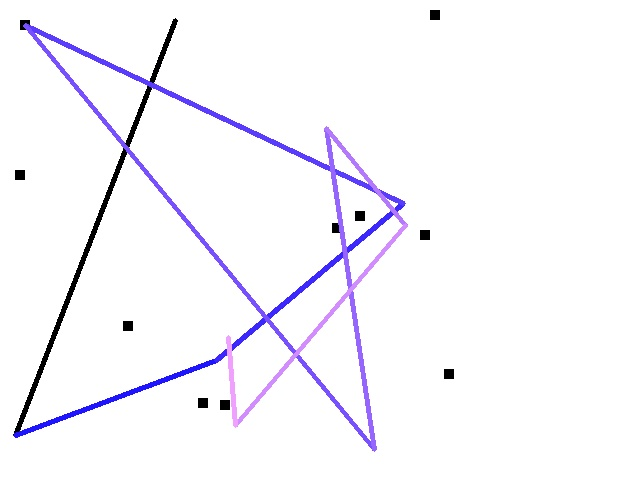
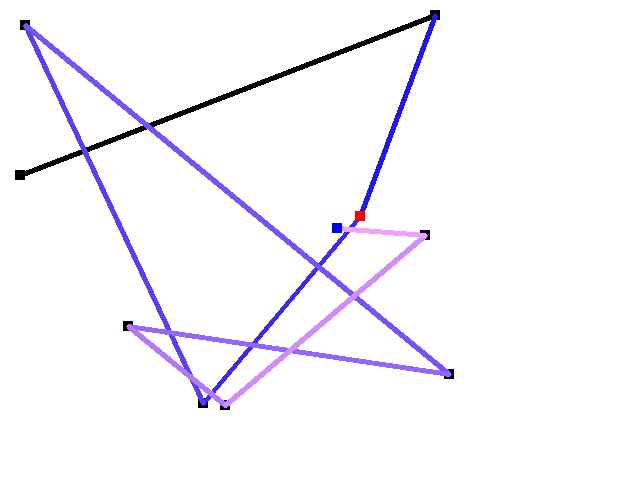
Signed-off-by: Sædvanlige ændringer :D <Emil@10.16.106.85>

diff --git a/ImageTest/src/routeTest/RouteTest.java b/ImageTest/src/routeTest/RouteTest.java
@@ -55,18 +55,18 @@ public class RouteTest {
 			xCoor.add(Coordi[c + 1]);
 		}
 		for (int i = 0; i < xCoor.size()-1; i++) {
-			if (ballNumber == 2) {
-				Core.line(frame, new Point(xCoor.get(i) + 5, yCoor.get(i) + 5),
+			/*if (ballNumber == 2) {
+				Core.line(frame, new Point(yCoor.get(i) + 5, xCoor.get(i) + 5),
 						new Point(goal.getX(), goal.getY()), new Scalar(0, 255,
 								0, 7));
 				ballNumber = 0;
-			}
+			}*/
 			int tempLength = 0;
 			ballNumber++;
 			
 			
 			///ARARGGDSG
-			Core.line(frame, new Point(xCoor.get(i) + 5, yCoor.get(i) + 5),	new Point(xCoor.get(i + 1) + 5, yCoor.get(i + 1) + 5),	new Scalar((i*2) * 200, i * 20, i * 30), 3);
+			Core.line(frame, new Point(yCoor.get(i) + 5, xCoor.get(i) + 5),	new Point(yCoor.get(i + 1) + 5, xCoor.get(i + 1) + 5),	new Scalar((i*2) * 200, i * 20, i * 30), 3);
 			///sdgsdgsdg
 			
 			
